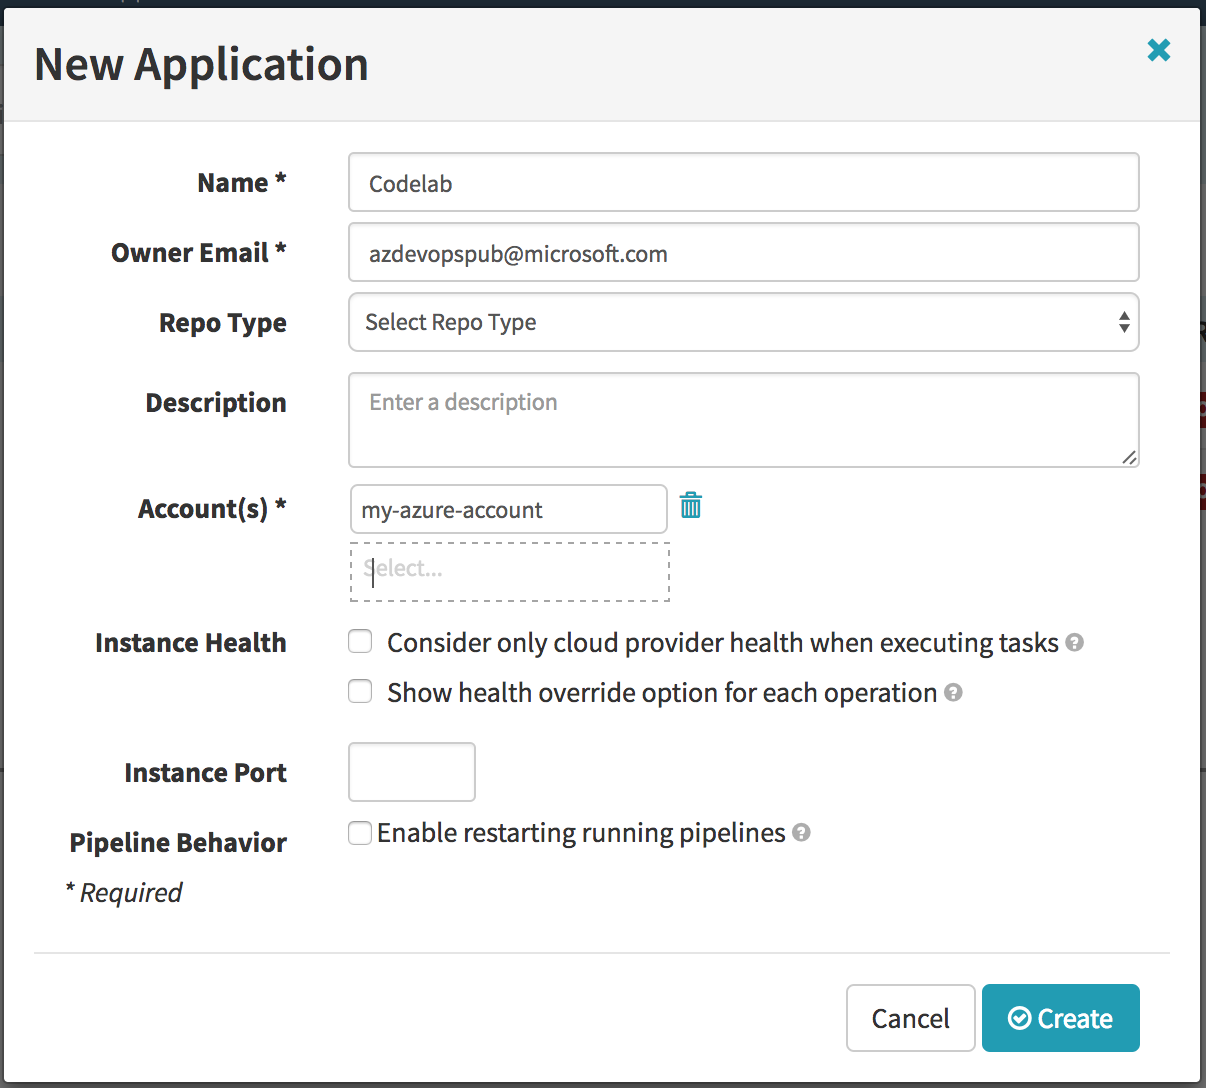
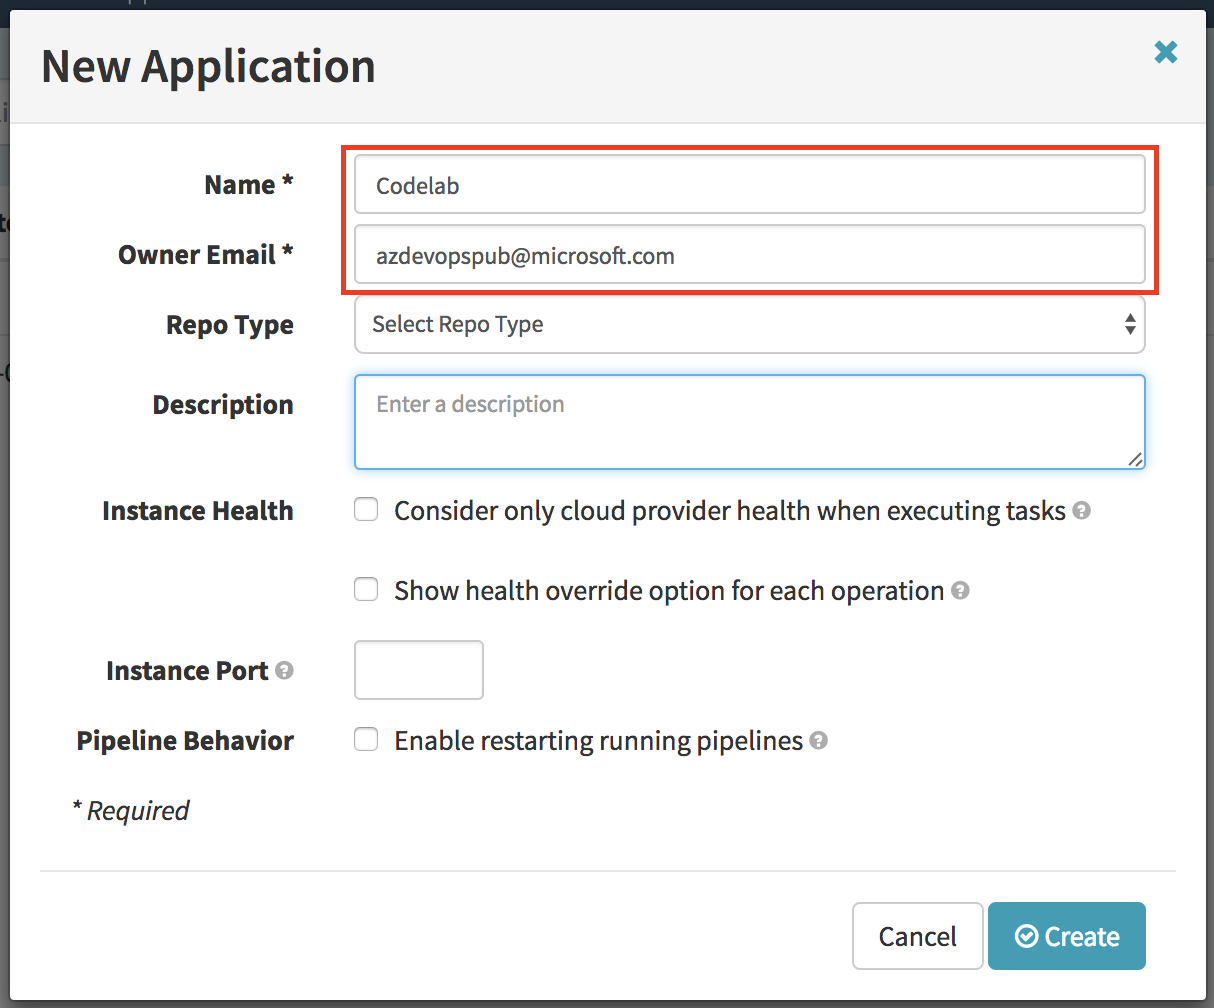
Including some UI changes and typo fix

diff --git a/guides/tutorials/codelabs/azure-vmss-source-to-prod/index.md b/guides/tutorials/codelabs/azure-vmss-source-to-prod/index.md
@@ -49,10 +49,11 @@ ssh -L 8080:localhost:8080 -L 9000:localhost:9000 -L 8084:localhost:8084 -L 8087
 
 1. After you have started your ssh tunnel, navigate to `http://localhost:8080/` on your local machine.
 1. The instance should already be unlocked and your first account setup. Login with the credentials you specified when deploying the template.
-1. Click "Install suggested plugins: 
+1. Click **Install suggested plugins**: 
    ![Install Jenkins plugins](images/1-Install-Jenkins-plugins.png)
 1. Your Jenkins instance is now ready to use!
-1. Run the "Sample Aptly Job" once by clicking on the run button for the job. Verify that the job completes successfully.
+1. Run the `Sample Aptly Job` by clicking on the run button for the job. Verify that the job completes successfully.
+
    ![Run Jenkins job](images/1-run-sample-aplty-job.png)
 
 ## 2. Configure Spinnaker
@@ -60,16 +61,15 @@ ssh -L 8080:localhost:8080 -L 9000:localhost:9000 -L 8084:localhost:8084 -L 8087
 ### I. Create the "codelab" application 
 
 1. Navigate to your Spinnaker VM by using `http://localhost:9000` on your local machine. 
-1. Click on the "Actions" menu on the right
+1. Click on the **Actions** menu on the right
 
    ![Actions](images/2-actions-create-applications.png)
    
-1. In the **New Application** window, enter the following values: 
+1. In the *New Application* window, enter the following values: 
   * Name: codelab
-  * Owner Email: Enter your email 
-  * Account(s): Select in the list "my-azure-account"
+  * Owner Email: Enter your email
   
-    And click "Create"
+    And click **Create**
   
     ![New Application](images/2-create-application.png)
   
@@ -77,18 +77,18 @@ ssh -L 8080:localhost:8080 -L 9000:localhost:9000 -L 8084:localhost:8084 -L 8087
 
 ### II. Create a Security Group"
 
-1. Navigate to the [SECURITY GROUPS](http://localhost:9000/#/applications/codelab/securityGroups) page and click on the *Create Security Group* button.
-1. Provide the following values in the "Create New Security Group" dialog: 
+1. Navigate to the [SECURITY GROUPS](http://localhost:9000/#/applications/codelab/securityGroups) page and click on the **Create Security Group** button.
+1. Provide the following values in the *Create New Security Group* dialog: 
   * Detail: web
   * Account: my-azure-account (should be selected by default)
   * Region: westus (select the region that is closest to your location)
 
-    Ingress (click "Add new Security Group Rule"):
+    Ingress (click *Add new Security Group Rule*):
   * Protocol: TCP
   * Start Port: 80
   * End Port: 80 
 
-    And click "Create", if the loadbalancer does not appear in the page once the creation is complete, refresh your browser.
+    And click **Create**, if the loadbalancer does not appear in the page once the creation is complete, refresh your browser.
 
     ![New Security Group](images/2-create-security-group.png)
 
@@ -98,7 +98,7 @@ ssh -L 8080:localhost:8080 -L 9000:localhost:9000 -L 8084:localhost:8084 -L 8087
 
 ### III. Create a Load Balancer
 
-1. Navigate to the [LOAD BALANCERS](http://localhost:9000/#/applications/codelab/loadBalancers) page and click the *Create Load Balancer* button.
+1. Navigate to the [LOAD BALANCERS](http://localhost:9000/#/applications/codelab/loadBalancers) page and click the **Create Load Balancer** button.
 1. Provide the following values in the "Create New Load Balancer" dialog: 
   * Account: my-azure-account
   * Region: westus (unless you have selected a different region previously)
@@ -112,7 +112,7 @@ ssh -L 8080:localhost:8080 -L 9000:localhost:9000 -L 8084:localhost:8084 -L 8087
   * External Port: 80
   * Internal Port: 8080 
 
-    And click "Create", this will take approximately 15 minutes to complete.
+    And click **Create**, this will take approximately 15 minutes to complete.
 
     ![Create test load balancer](images/2-create-test-load-balancer.png)
 
@@ -130,9 +130,9 @@ In this section you will create a Spinnaker pipeline that will bake the image fr
 ### I. Create a new pipeline
 
 1. Navigate to the [PIPELINES](http://localhost:9000/#/applications/codelab/executions) page and click on the *New* button (+ sign) on the right to create a new pipeline.
-1. Name your pipeline: "Deploy codelab" and click *Create*.
+1. Name your pipeline: "Deploy codelab" and click **Create**.
 
-![Bake and Deploy to Test](images/3-create-new-pipeline.png)
+   ![Bake and Deploy to Test](images/3-create-new-pipeline.png)
 
 ### II. Add a trigger for the pipeline
 
@@ -143,7 +143,7 @@ In this section you will create a Spinnaker pipeline that will bake the image fr
   * Job: "hello-karyon-rxnetty"
   * Property File: leave empty 
 
-![Add a trigger](images/3-add-trigger.png)
+    ![Add a trigger](images/3-add-trigger.png)
 
 ### III. Add *Bake* stage
 
@@ -155,7 +155,7 @@ In this section you will create a Spinnaker pipeline that will bake the image fr
   * Package: ```hello-karyon-rxnetty```
   * Base OS: ubuntu (v14.05)
 
-![Add Bake](images/3-add-bake-stage.png)
+    ![Add Bake](images/3-add-bake-stage.png)
 
 ### IV. Add *Deploy to test* stage
 
@@ -165,12 +165,14 @@ In this section you will create a Spinnaker pipeline that will bake the image fr
   * Stage Name: Deploy to Test
   * Depends On: Bake
 
-![Add Deploy to Test](images/3-add-deploy-to-test.png)
+    ![Add Deploy to Test](images/3-add-deploy-to-test.png)
 
 ### V. Create Test deployment configuration
 
 1. Click *Add server group* in the Deploy Configuration section. 
-![Add server group](images/3-add-server-group.png)
+
+   ![Add server group](images/3-add-server-group.png)
+
 1. Click "Continue without a template"
 1. In the "Configure Deployment Cluster" enter the following values:
   * Account: my-azure-account
@@ -178,17 +180,22 @@ In this section you will create a Spinnaker pipeline that will bake the image fr
   * Stack: test
   * Details: tutorial
   * Load Balancers: codelab-test-frontend
-  ![Configure Deployment Cluster - 1](images/3-configure-deployment-cluster-1.png)
+
+    ![Configure Deployment Cluster - 1](images/3-configure-deployment-cluster-1.png)
+    
   * Subnets: devopsSubnet0
   * Security Groups: codelab-web
-  ![Configure Deployment Cluster - 2](images/3-configure-deployment-cluster-2.png)
+
+    ![Configure Deployment Cluster - 2](images/3-configure-deployment-cluster-2.png)
+
   * "Advanced Settings": 
     - Custom Data: TEST
     - Custom Script: https://raw.githubusercontent.com/azure-devops/hello-karyon-rxnetty/master/scripts/setcustomenv.sh
     - Command To Execute: sudo bash ./setcustomenv.sh
-  ![Configure Deployment Cluster - 3](images/3-configure-deployment-cluster-3.png)
 
-  * Click Add 
+      ![Configure Deployment Cluster - 3](images/3-configure-deployment-cluster-3.png)
+
+  * Click **Add** 
 
 > NOTE: Record the name of the cluster. it will be used in the next step.
 
@@ -239,17 +246,22 @@ In this section we will add the steps that will promote the deployment to test i
   * Stack: prod
   * Details: tutorial
   * Load Balancers: codelab-prod-frontend
-  ![Configure Prod Cluster - 1](images/4-configure-prod-cluster-1.png)
+
+    ![Configure Prod Cluster - 1](images/4-configure-prod-cluster-1.png)
+
   * Subnets: devopsSubnet2
   * Security Groups: codelab-web
-  ![Configure Prod Cluster - 2](images/3-configure-deployment-cluster-2.png)
+
+    ![Configure Prod Cluster - 2](images/3-configure-deployment-cluster-2.png)
+
   * "Advanced Settings": 
     - Custom Data: PROD
     - Custom Script: https://raw.githubusercontent.com/azure-devops/hello-karyon-rxnetty/master/scripts/setcustomenv.sh
     - Command To Execute: sudo bash ./setcustomenv.sh
-  ![Configure Deployment Cluster - 3](images/4-configure-prod-cluster-2.png)
+  
+      ![Configure Deployment Cluster - 3](images/4-configure-prod-cluster-2.png)
 
-  * Click *Add* 
+  * Click **Add** 
 
 > NOTE: Record the name of the cluster. it will be used in the next step.
 
@@ -264,9 +276,10 @@ In this section we will add the steps that will promote the deployment to test i
   * Regions: westus (or select the region that you have selected when creating the Security Group)
   * Cluster: codelab-prod-tutorial
   * Target: Newest Server Group
+
     ![Enable Prod deployment](images/4-enable-prod-deployment.png)
 
-  * Click *Save Changes*
+  * Click **Save Changes**
 
 ## 5. Test it out 
 
@@ -278,6 +291,7 @@ In this step you will try out the pipeline that you have just build.
 1. Click on *Details* to get more information about the status of your deployment
 1. Connect to your application. 
    You can find the public name of your application ny looking at the DNS Name that has been assigned to your load balancer.
+
    ![DNS Name of your application](images/5-application-dns-name.png) 
 
 ## 6. Tear Down
@@ -285,22 +299,26 @@ In this step you will try out the pipeline that you have just build.
 ### I. Delete your pipeline 
 
 1. In the configuration of your pipeline, click on *Pipeline Actions* then click on *Delete*
-![Delete pipeline](images/6-delete-pipeline.png)
+
+   ![Delete pipeline](images/6-delete-pipeline.png)
 
 ### II. Delete your server groups 
 
 1. Navigate to the [CLUSTERS](http://localhost:9000/#/applications/codelab/clusters) section.
 1. Select each Server Group in the list and select *Destroy* for each of them. 
-![Destroy Server Group](images/6-destroy-server-group.png)
+
+   ![Destroy Server Group](images/6-destroy-server-group.png)
 
 ### III. Delete your load balancers
 
 1. Navigate to the [LOAD BALANCERS](http://localhost:9000/#/applications/codelab/loadBalancers) section.
 1. Select each Load Balancer in the list then in the *Load Balancer Actions* select *Delete Load Balancer* 
-![Delete Load Balancer](images/6-delete-load-balancer.png)
+
+   ![Delete Load Balancer](images/6-delete-load-balancer.png)
 
 ### IV. Delete your security group
 
 1. Navigate to the [SECURITY GROUP](http://localhost:9000/#/applications/codelab/securityGroups) section.
 1. Select each Security Group in the list then in the *Security Group Actions* select *Delete Security Group* 
-![Delete Security Group](images/6-delete-security-group.png)
+
+   ![Delete Security Group](images/6-delete-security-group.png)
